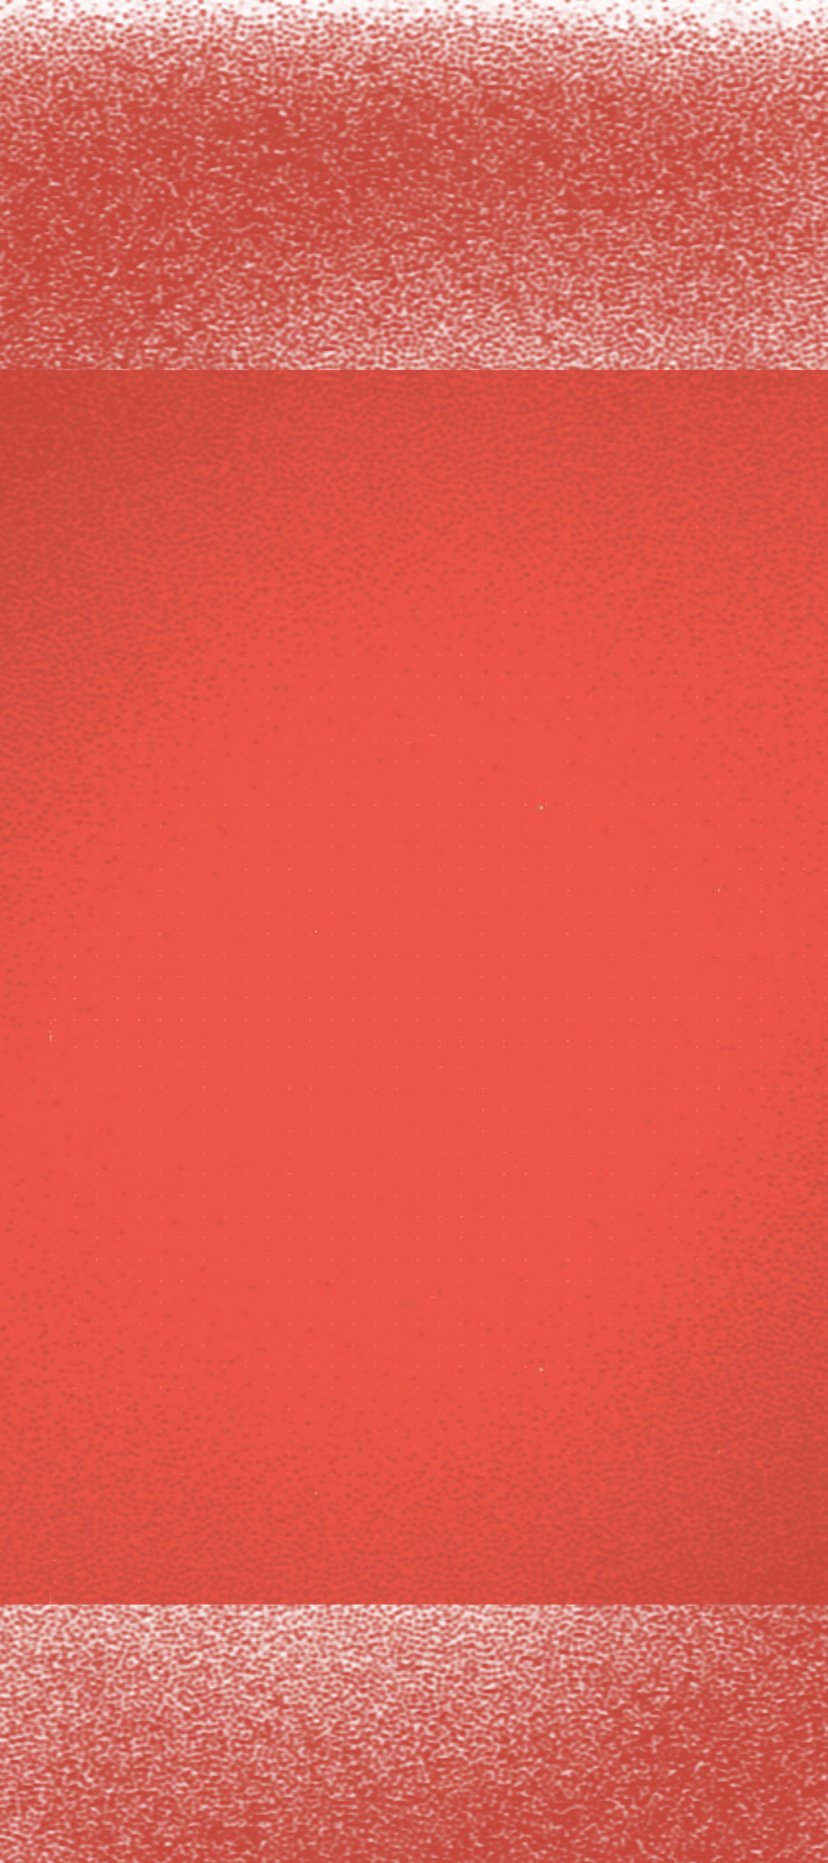
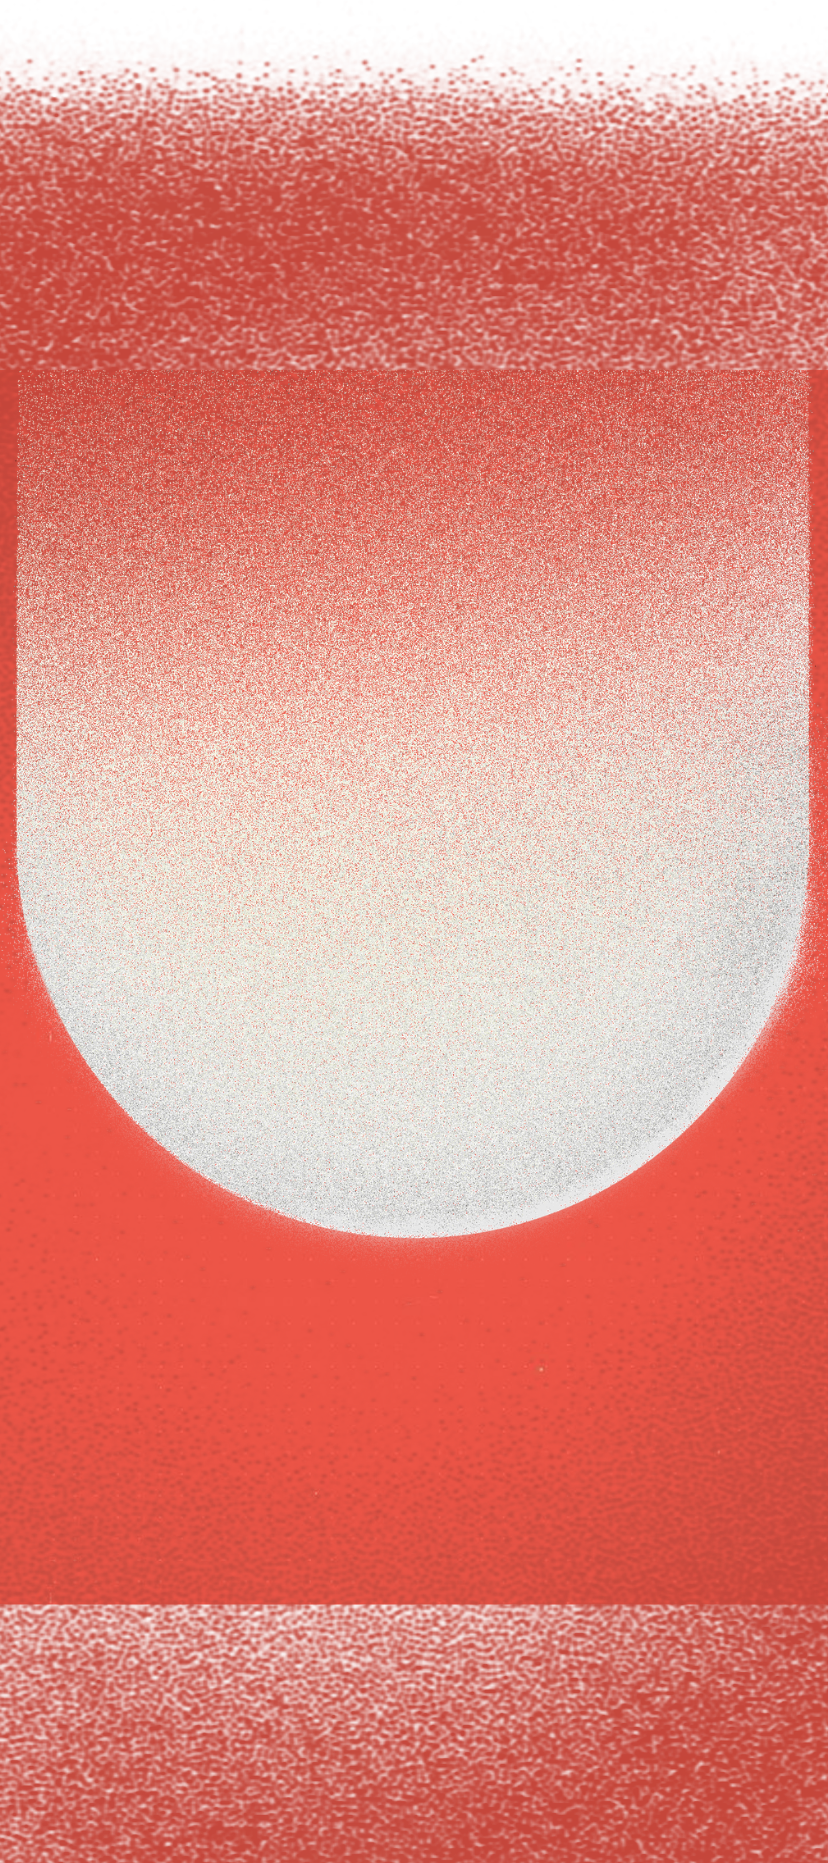
huh

diff --git a/components/globe-demo.tsx b/components/globe-demo.tsx
@@ -18,10 +18,10 @@ export default function GlobeDemo() {
         initial={{ opacity: 0 }}
         animate={{ opacity: 1 }}
         transition={{ duration: 1.2, delay: 0.2, ease: "easeOut" }}
-        className="absolute inset-x-0 -top-8 md:-top-14 bottom-0 z-0 pointer-events-none w-full h-[calc(100%+3.5rem)]"
+        className="absolute inset-x-0 -top-16 md:-top-28 bottom-0 z-0 pointer-events-none w-full h-[calc(100%+7rem)]"
         style={{
-          maskImage: "linear-gradient(to bottom, black 55%, transparent 94%)",
-          WebkitMaskImage: "linear-gradient(to bottom, black 55%, transparent 94%)",
+          maskImage: "linear-gradient(to bottom, black 65%, transparent 95%)",
+          WebkitMaskImage: "linear-gradient(to bottom, black 65%, transparent 95%)",
         }}
       >
         <Image
@@ -35,7 +35,7 @@ export default function GlobeDemo() {
       </motion.div>
 
       {/* ─── Hero Content Stack ─── */}
-      <div className="relative z-20 flex flex-col items-center text-center max-w-4xl mx-auto px-5 md:px-6">
+      <div className="relative z-20 flex flex-col items-center text-center max-w-4xl mx-auto px-5 md:px-6 -mt-10 md:-mt-16">
         {/* IEMMUN Logo Emblem above title */}
         <motion.div
           initial={{ opacity: 0, scale: 0.85 }}
@@ -127,9 +127,6 @@ export default function GlobeDemo() {
           <ChevronDown className="w-3.5 h-3.5 text-zinc-400 drop-shadow-[0_1px_2px_rgba(255,255,255,0.8)]" />
         </motion.div>
       </motion.div>
-
-      {/* Bottom gradient & blur blend overlay into next section */}
-      <div className="absolute inset-x-0 bottom-0 h-10 md:h-14 bg-gradient-to-t from-white/70 to-transparent backdrop-blur-[2px] pointer-events-none z-10" />
     </section>
   );
 }

diff --git a/components/InteractiveMeshBackground.tsx b/components/InteractiveMeshBackground.tsx
@@ -33,7 +33,7 @@ export const InteractiveMeshBackground: React.FC = () => {
 
   return (
     <div
-      className="fixed inset-0 -z-50 pointer-events-none w-full h-screen bg-[#ffffff] select-none overflow-hidden"
+      className="fixed inset-0 -z-50 pointer-events-none w-full h-screen bg-[#f7d4ce] select-none overflow-hidden"
     >
       <div 
         ref={bgRef}